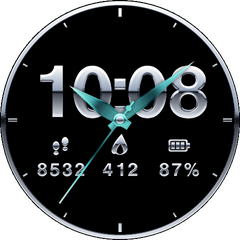
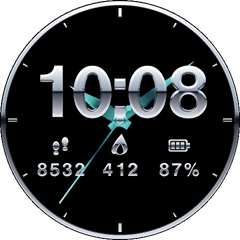
Layer the watch hands behind the digits and stats
Create TIME_POINTER right after the background (normal and AOD) so the
chrome time and stats draw on top; preview composites in the same order.

Claude-Session: https://claude.ai/code/session_01SUjjCQSSmjdAurWoRWAMGg

diff --git a/chrome-watchface/watchface/index.js b/chrome-watchface/watchface/index.js
@@ -52,7 +52,7 @@ function hands(suffix, withSeconds, level) {
       second_posX: px(HANDS.second.posX),
       second_posY: px(HANDS.second.posY),
       second_path: 'hands/second.png',
-      second_cover_path: 'hands/cap.png', // centre cap sits on top of all three hands
+      second_cover_path: 'hands/cap.png', // centre cap sits on top of all three hands (still under the digits)
       second_cover_x: px(CENTER - CAP / 2),
       second_cover_y: px(CENTER - CAP / 2),
     });
@@ -120,18 +120,19 @@ WatchFace({
       show_level: hmUI.show_level.ONLY_NORMAL,
     });
 
+    // Analog hands sit on the background, BEHIND the digits and stats (widgets stack in
+    // creation order). The system keeps them in sync with the clock.
+    hmUI.createWidget(hmUI.widget.TIME_POINTER, hands('', true, hmUI.show_level.ONLY_NORMAL));
+
     hmUI.createWidget(hmUI.widget.IMG_TIME, timeProps(TIME_DIGITS, 'time/colon.png', hmUI.show_level.ONLY_NORMAL));
 
     stat(0, 'steps', hmUI.data_type.STEP);
     stat(1, 'cal', hmUI.data_type.CAL);
     stat(2, 'battery', hmUI.data_type.BATTERY, 'data/percent.png');
 
-    // Analog hands on top of the digital time; the system keeps them in sync with the clock
-    hmUI.createWidget(hmUI.widget.TIME_POINTER, hands('', true, hmUI.show_level.ONLY_NORMAL));
-
     // Always-on display: dimmed chrome time + dimmed hour/minute hands on black (lowest power)
-    hmUI.createWidget(hmUI.widget.IMG_TIME, timeProps(AOD_DIGITS, 'time_aod/colon.png', hmUI.show_level.ONAL_AOD));
     hmUI.createWidget(hmUI.widget.TIME_POINTER, hands('_aod', false, hmUI.show_level.ONAL_AOD)); // dimmed, no second hand
+    hmUI.createWidget(hmUI.widget.IMG_TIME, timeProps(AOD_DIGITS, 'time_aod/colon.png', hmUI.show_level.ONAL_AOD));
   },
 
   onInit() {},

diff --git a/chrome-watchface/tools/gen_assets.py b/chrome-watchface/tools/gen_assets.py
@@ -254,6 +254,10 @@ def put_hand(im, key, deg):
 
 def compose(time_txt, data, hms=None):
     im = bg.copy().convert("RGBA")
+    if hms:                                             # hands first: they sit behind digits + stats
+        h, mi, se = hms
+        put_hand(im, "hour", (h % 12 + mi / 60) * 30); put_hand(im, "minute", (mi + se / 60) * 6); put_hand(im, "second", se * 6)
+        im.alpha_composite(cap, (240 - CAP // 2, 240 - CAP // 2))
     tw = 4 * BW + LAYOUT["CW"]; x = (480 - tw) // 2; y = TIME_Y
     for ch in time_txt:
         g = big["colon"] if ch == ":" else big[ch]; im.alpha_composite(g, (x, y)); x += g.width
@@ -262,10 +266,6 @@ def compose(time_txt, data, hms=None):
         glyphs = [small["percent"] if c == "%" else small[c] for c in txt]
         wsum = sum(g.width for g in glyphs); x = cx - wsum // 2
         for g in glyphs: im.alpha_composite(g, (x, DATA_Y)); x += g.width
-    if hms:
-        h, mi, se = hms
-        put_hand(im, "hour", (h % 12 + mi / 60) * 30); put_hand(im, "minute", (mi + se / 60) * 6); put_hand(im, "second", se * 6)
-        im.alpha_composite(cap, (240 - CAP // 2, 240 - CAP // 2))
     mask = Image.new("L", (480, 480), 0); ImageDraw.Draw(mask).ellipse([0, 0, 479, 479], fill=255)
     out = Image.new("RGBA", (480, 480), (0, 0, 0, 0)); out.paste(im, (0, 0), mask)
     return out

diff --git a/chrome-watchface/README.md b/chrome-watchface/README.md
@@ -130,7 +130,7 @@ also what you'd upload if you ever publish the face in the Zepp store.
 ### What the code does (`watchface/index.js`)
 - `IMG_TIME` draws the hours and minutes from the chrome digit images, with the colon
   as the hour's "unit" image.
-- `TIME_POINTER` draws the **frosted teal chrome hands** (hour, minute and a sweeping second
+- `TIME_POINTER` draws the **frosted teal chrome hands**, layered just above the background so the digits and stats sit on top of them (hour, minute and a sweeping second
   hand) plus a centre cap. The watch rotates each hand image around its pivot point
   (`posX` / `posY`), so it stays in sync with the system clock and needs no timers.
 - Three `TEXT_IMG` widgets are bound to `hmUI.data_type.STEP`, `CAL` and `BATTERY`, so
